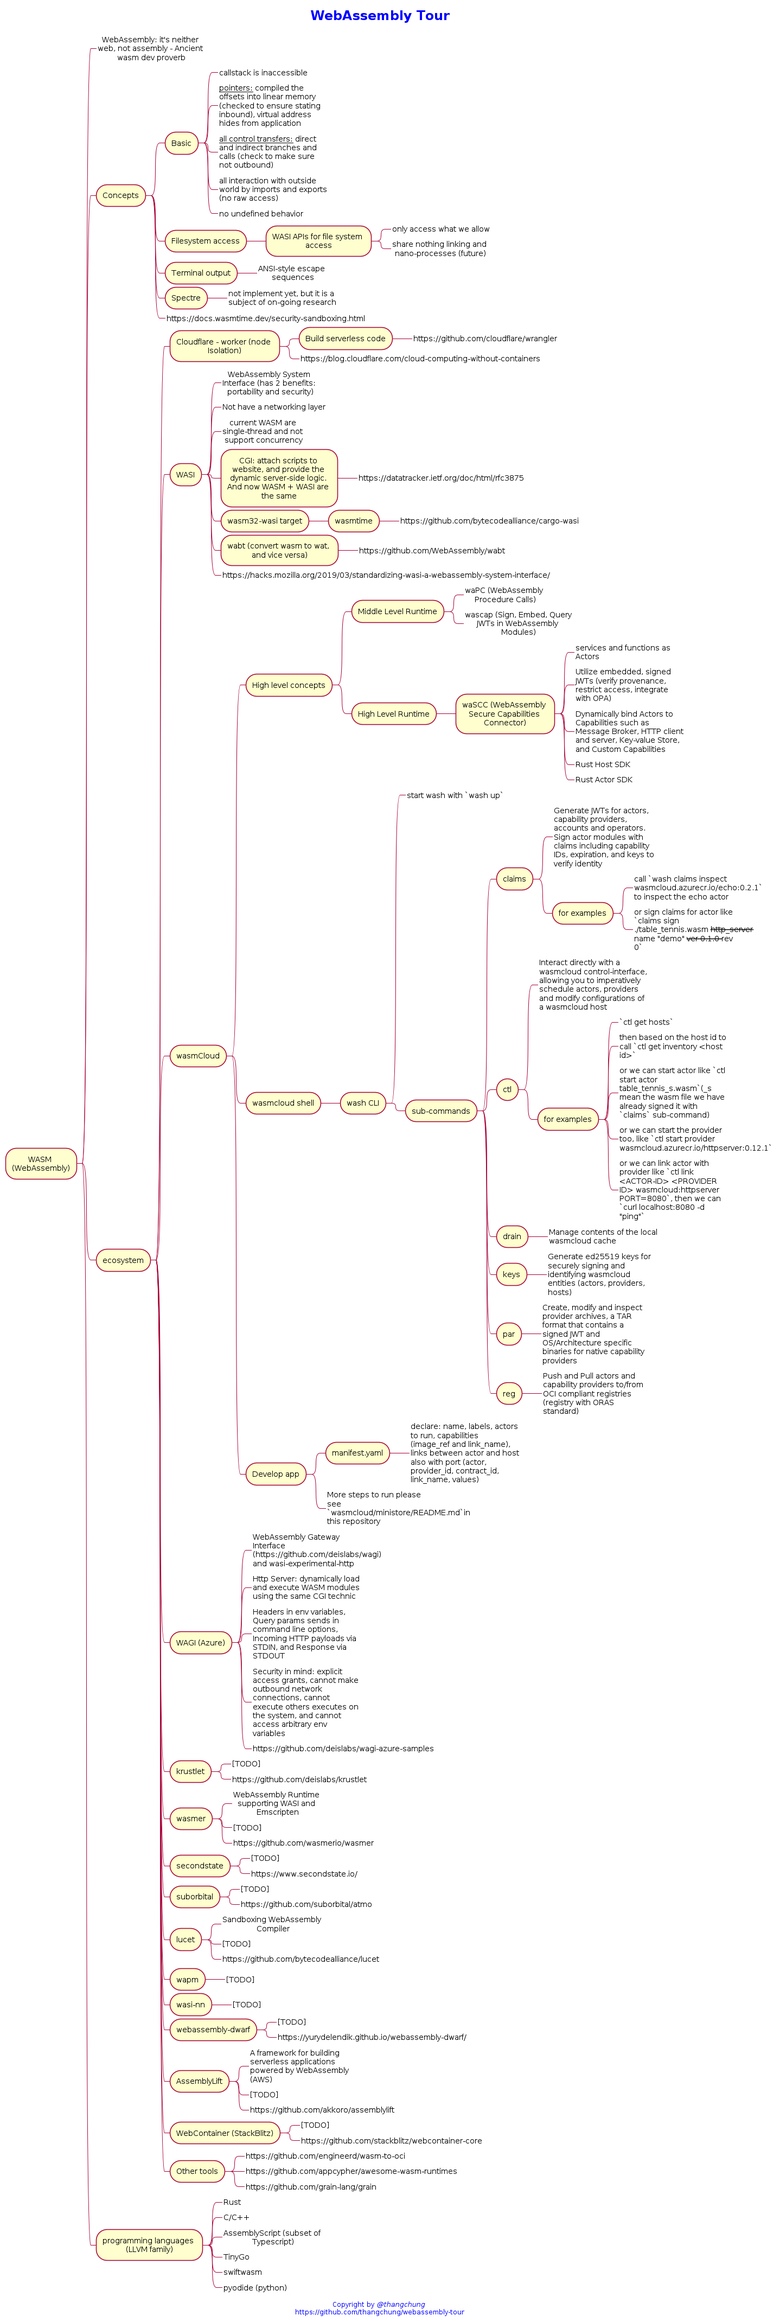
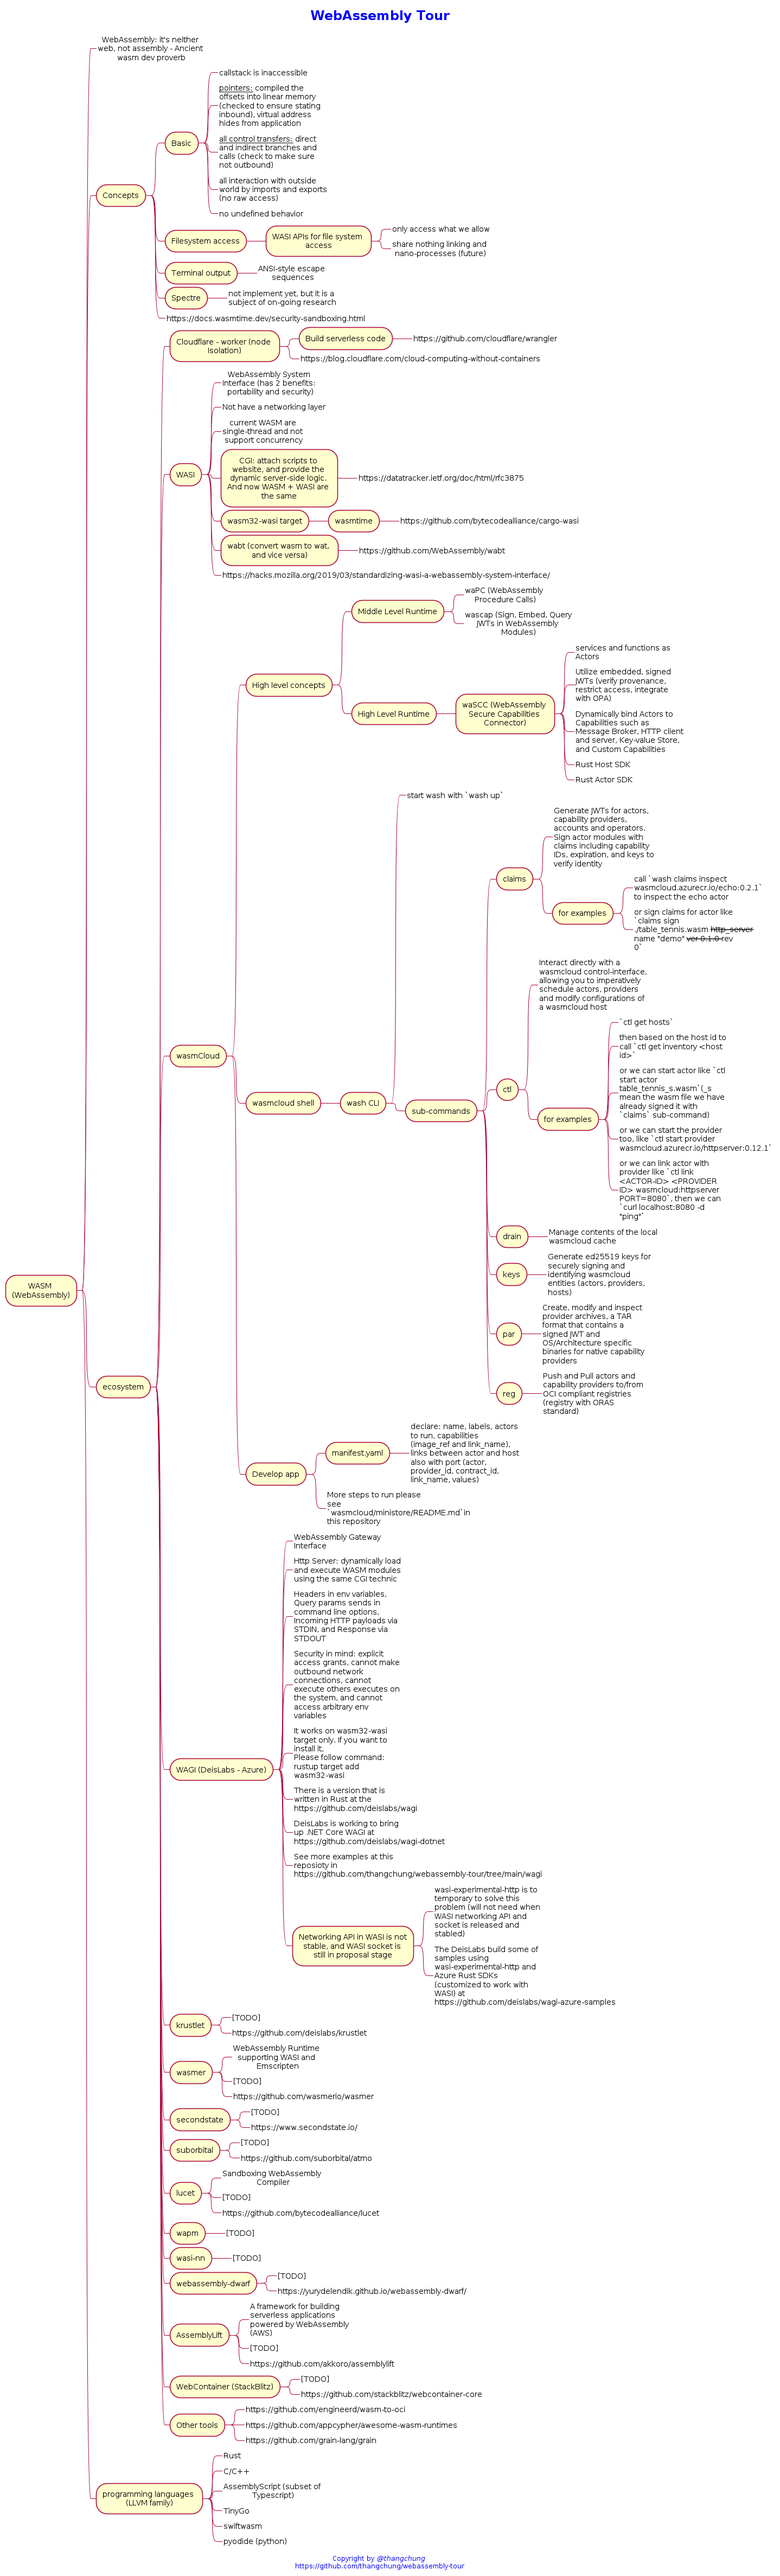
update docks with WAGI

diff --git a/wagi/functions/README.md b/wagi/functions/README.md
@@ -1,0 +1,28 @@
+# Get starting with wagi
+
+- Build
+
+```bash
+$ rustup target add wasm32-wasi
+$ cargo build-wasm
+```
+
+- Run
+
+```
+$ ./wagi --config modules.toml
+```
+
+- Test
+
+```
+# test it
+$ curl -v http://localhost:3000/get-todos
+```
+
+Environment:
+- Ubuntu 20.04.2 LTS
+- rustc 1.52.1 (9bc8c42bb 2021-05-09)
+- cargo 1.52.0 (69767412a 2021-04-21)
+
+Happy hacking!
